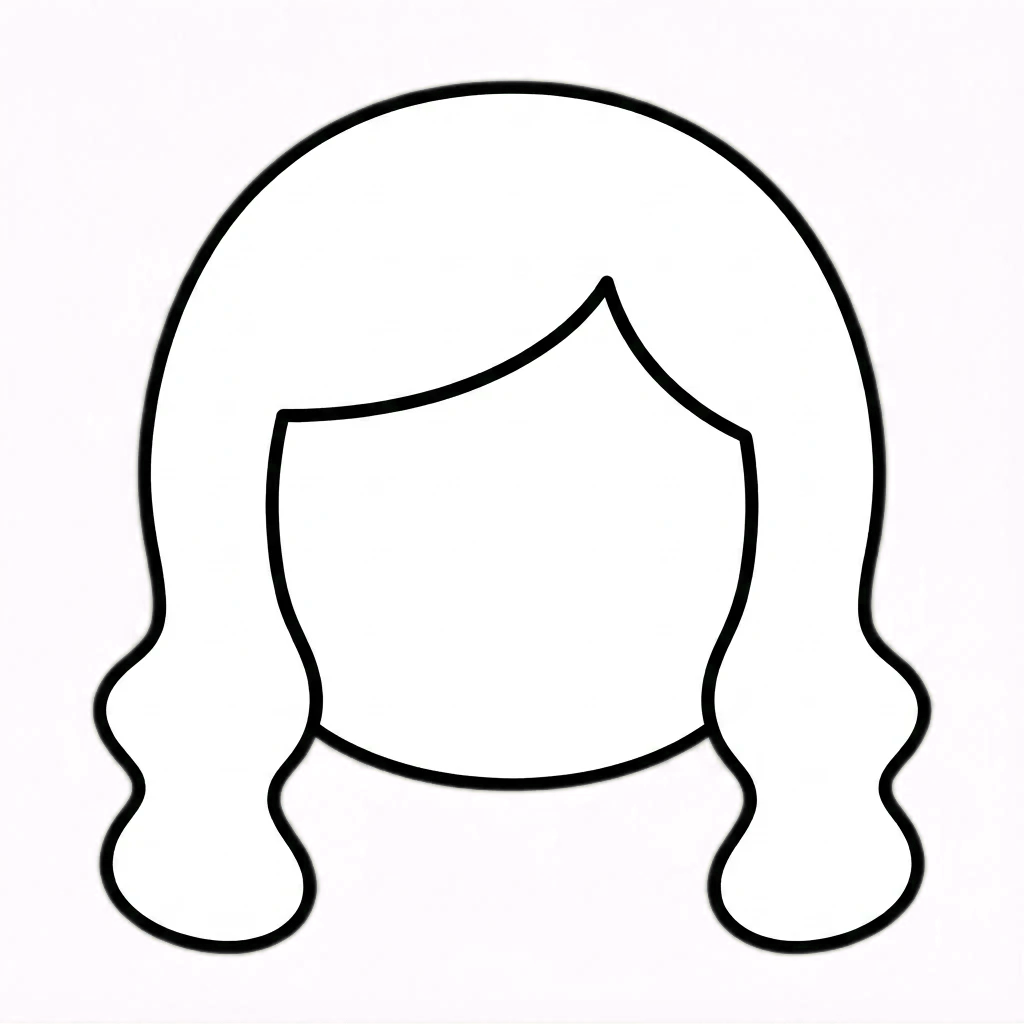
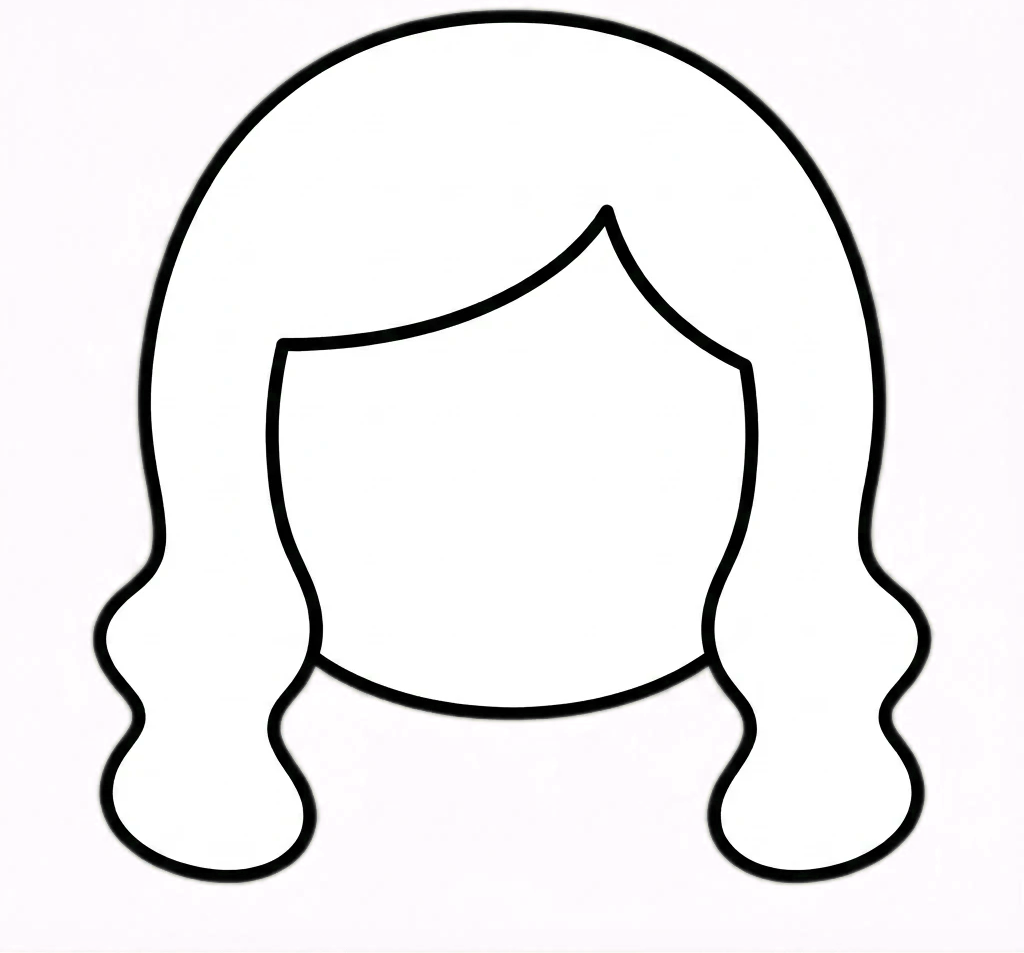
Wire the approved Toca Boca character art into the live game
Replaces the procedural placeholder shapes for head, body, both hair
lengths, both outfit shapes, outfit trim, glasses, and hair bow with
the approved illustrated PNGs, loaded via each scene's preload() and
tinted at runtime exactly as before (setTint() on white-fill/black-
outline art). CharacterView now scales each layer to a tuned target
size/position since the new art has different native proportions than
the old Graphics-drawn shapes (particularly the body, which is now a
full standing figure with arms and legs instead of a torso capsule).

sunglasses and earring still fall back to the old procedural shapes
until those two assets are provided.

Verified by screenshotting the House scene with Playwright: characters
render with the new illustrated art end-to-end.

Changed region(s): [[0.0625, 0.0, 0.9375, 0.9433]]

diff --git a/src/game/entities/CharacterView.ts b/src/game/entities/CharacterView.ts
@@ -13,6 +13,46 @@ import { colorToNumber } from '@/lib/color';
 
 const SPARKLE_ACCENTS = ['#FF5C7A', '#FFD34D', '#4DB8FF'];
 
+/** Target on-screen sizes for the illustrated shape layers (uniform scale, aspect preserved). */
+const LAYER_SIZE = {
+  head: 60,
+  body: 108, // full standing figure (torso+arms+legs); this one is a target HEIGHT, not width
+  outfitShirt: 90,
+  outfitDress: 92,
+  outfitTrim: 50,
+  hairShort: 66,
+  hairLong: 70,
+  glasses: 40,
+  earring: 12,
+  hairBow: 32,
+};
+
+const BODY_Y = -6;
+const HEAD_Y = -85;
+const OUTFIT_SHIRT_Y = -34;
+const OUTFIT_DRESS_Y = -20;
+const TRIM_Y = -8;
+const HAIR_SHORT_Y = HEAD_Y - 6;
+const HAIR_LONG_Y = HEAD_Y + 2;
+const GLASSES_Y = HEAD_Y + 2;
+const EARRING_Y = HEAD_Y + 8;
+const EARRING_X = 22;
+const HAIR_ACCESSORY_Y = HEAD_Y - 24;
+const HAIR_ACCESSORY_X = 12;
+const HELD_ITEM_X = 60;
+
+/** Uniformly scales `image` so its display width matches `targetWidth`, preserving aspect ratio. */
+function fitWidth(image: Phaser.GameObjects.Image, targetWidth: number): void {
+  const scale = targetWidth / image.width;
+  image.setScale(scale);
+}
+
+/** Uniformly scales `image` so its display height matches `targetHeight`, preserving aspect ratio. */
+function fitHeight(image: Phaser.GameObjects.Image, targetHeight: number): void {
+  const scale = targetHeight / image.height;
+  image.setScale(scale);
+}
+
 /**
  * A character rendered as layered, independently-tinted shape sprites
  * (skin, outfit, hair, accessories, held item) inside one Container. Layers
@@ -38,25 +78,39 @@ export class CharacterView extends Phaser.GameObjects.Container {
     this.characterId = character.id;
 
     this.bodyShape = scene.add
-      .image(0, -6, SHAPE.bodyCapsule)
+      .image(0, BODY_Y, SHAPE.bodyCapsule)
       .setTint(colorToNumber(character.skinTone));
+    fitHeight(this.bodyShape, LAYER_SIZE.body);
     this.head = scene.add
-      .image(0, -52, SHAPE.headCircle)
+      .image(0, HEAD_Y, SHAPE.headCircle)
       .setTint(colorToNumber(character.skinTone));
-    this.outfit = scene.add.image(0, 0, SHAPE.outfitShirt);
-    this.trim = scene.add.image(0, 26, SHAPE.outfitTrim);
-    this.hair = scene.add.image(0, -58, SHAPE.hairShort);
+    fitWidth(this.head, LAYER_SIZE.head);
+    this.outfit = scene.add.image(0, OUTFIT_SHIRT_Y, SHAPE.outfitShirt);
+    fitWidth(this.outfit, LAYER_SIZE.outfitShirt);
+    this.trim = scene.add.image(0, TRIM_Y, SHAPE.outfitTrim);
+    fitWidth(this.trim, LAYER_SIZE.outfitTrim);
+    this.hair = scene.add.image(0, HAIR_SHORT_Y, SHAPE.hairShort);
+    fitWidth(this.hair, LAYER_SIZE.hairShort);
     this.sparkles = SPARKLE_ACCENTS.map((color, i) =>
       scene.add
-        .image(-14 + i * 14, -78, SHAPE.sparkle)
+        .image(-14 + i * 14, HEAD_Y - 26, SHAPE.sparkle)
         .setTint(colorToNumber(color))
         .setVisible(false),
     );
-    this.glasses = scene.add.image(0, -50, SHAPE.glasses).setVisible(false);
-    this.earringL = scene.add.image(-18, -44, SHAPE.earring).setVisible(false);
-    this.earringR = scene.add.image(18, -44, SHAPE.earring).setVisible(false).setFlipX(true);
-    this.hairAccessory = scene.add.image(14, -76, SHAPE.hairBow).setVisible(false);
-    this.heldItem = scene.add.image(30, -6, SHAPE.bag).setVisible(false);
+    this.glasses = scene.add.image(0, GLASSES_Y, SHAPE.glasses).setVisible(false);
+    fitWidth(this.glasses, LAYER_SIZE.glasses);
+    this.earringL = scene.add.image(-EARRING_X, EARRING_Y, SHAPE.earring).setVisible(false);
+    fitWidth(this.earringL, LAYER_SIZE.earring);
+    this.earringR = scene.add
+      .image(EARRING_X, EARRING_Y, SHAPE.earring)
+      .setVisible(false)
+      .setFlipX(true);
+    fitWidth(this.earringR, LAYER_SIZE.earring);
+    this.hairAccessory = scene.add
+      .image(HAIR_ACCESSORY_X, HAIR_ACCESSORY_Y, SHAPE.hairBow)
+      .setVisible(false);
+    fitWidth(this.hairAccessory, LAYER_SIZE.hairBow);
+    this.heldItem = scene.add.image(HELD_ITEM_X, BODY_Y, SHAPE.bag).setVisible(false);
 
     this.add([
       this.bodyShape,
@@ -79,9 +133,11 @@ export class CharacterView extends Phaser.GameObjects.Container {
   applyOutfitState(outfitState: CharacterOutfitState): void {
     const outfit = outfitsById.get(outfitState.outfitId);
     if (outfit) {
+      const isDress = outfit.category === 'formalDress' || outfit.category === 'dress';
       const visual = outfitVisual(outfit);
       this.outfit.setTexture(visual.texture).setTint(colorToNumber(visual.color));
-      this.outfit.setY(outfit.category === 'formalDress' || outfit.category === 'dress' ? 8 : 0);
+      fitWidth(this.outfit, isDress ? LAYER_SIZE.outfitDress : LAYER_SIZE.outfitShirt);
+      this.outfit.setY(isDress ? OUTFIT_DRESS_Y : OUTFIT_SHIRT_Y);
       if (visual.trimColor) {
         this.trim.setVisible(true).setTint(colorToNumber(visual.trimColor));
       } else {
@@ -91,22 +147,24 @@ export class CharacterView extends Phaser.GameObjects.Container {
 
     const hair = hairById.get(outfitState.hairId);
     if (hair) {
+      const isLong = hair.length === 'long';
       const visual = hairVisual(hair);
       this.hair.setTexture(visual.texture).setTint(colorToNumber(visual.color));
-      this.hair.setY(hair.length === 'long' ? -50 : -58);
+      fitWidth(this.hair, isLong ? LAYER_SIZE.hairLong : LAYER_SIZE.hairShort);
+      this.hair.setY(isLong ? HAIR_LONG_Y : HAIR_SHORT_Y);
       this.sparkles.forEach((sparkle) => sparkle.setVisible(visual.rainbow));
     }
 
-    this.applyAccessory(this.glasses, outfitState.glassesId, [-50]);
+    this.applyAccessory(this.glasses, outfitState.glassesId, LAYER_SIZE.glasses);
     this.applyEarrings(outfitState.earringsId);
-    this.applyAccessory(this.hairAccessory, outfitState.hairAccessoryId, [-76]);
+    this.applyAccessory(this.hairAccessory, outfitState.hairAccessoryId, LAYER_SIZE.hairBow);
     this.applyHeldItem(outfitState.heldItemId);
   }
 
   private applyAccessory(
     target: Phaser.GameObjects.Image,
     id: string | null,
-    _pos: number[],
+    targetWidth: number,
   ): void {
     if (!id) {
       target.setVisible(false);
@@ -119,6 +177,7 @@ export class CharacterView extends Phaser.GameObjects.Container {
     }
     const visual = accessoryVisual(accessory);
     target.setTexture(visual.texture).setTint(colorToNumber(visual.color)).setVisible(true);
+    fitWidth(target, targetWidth);
   }
 
   private applyEarrings(id: string | null): void {
@@ -131,7 +190,9 @@ export class CharacterView extends Phaser.GameObjects.Container {
     const visual = accessoryVisual(accessory);
     const color = colorToNumber(visual.color);
     this.earringL.setTexture(visual.texture).setTint(color).setVisible(true);
+    fitWidth(this.earringL, LAYER_SIZE.earring);
     this.earringR.setTexture(visual.texture).setTint(color).setVisible(true);
+    fitWidth(this.earringR, LAYER_SIZE.earring);
   }
 
   private applyHeldItem(id: string | null): void {

diff --git a/src/game/loaders/shapeImages.ts b/src/game/loaders/shapeImages.ts
@@ -1,0 +1,39 @@
+import Phaser from 'phaser';
+import { SHAPE } from './shapeTextures';
+
+import headUrl from '@/assets/characters/head.png';
+import bodyUrl from '@/assets/characters/body.png';
+import hairShortUrl from '@/assets/characters/hair-short.png';
+import hairLongUrl from '@/assets/characters/hair-long.png';
+import outfitShirtUrl from '@/assets/characters/outfit-shirt.png';
+import outfitDressUrl from '@/assets/characters/outfit-dress.png';
+import outfitTrimUrl from '@/assets/characters/outfit-trim.png';
+import glassesUrl from '@/assets/characters/glasses.png';
+import hairBowUrl from '@/assets/characters/hair-bow.png';
+
+/**
+ * Illustrated (Toca Boca-style) replacements for a subset of SHAPE keys.
+ * Anything not listed here keeps falling back to the procedural Graphics
+ * shapes drawn by `ensureBaseShapeTextures` - both are plain white-fill /
+ * black-outline art tinted at runtime, so the two sources mix safely.
+ */
+const SHAPE_IMAGE_SOURCES: Partial<Record<(typeof SHAPE)[keyof typeof SHAPE], string>> = {
+  [SHAPE.headCircle]: headUrl,
+  [SHAPE.bodyCapsule]: bodyUrl,
+  [SHAPE.hairShort]: hairShortUrl,
+  [SHAPE.hairLong]: hairLongUrl,
+  [SHAPE.outfitShirt]: outfitShirtUrl,
+  [SHAPE.outfitDress]: outfitDressUrl,
+  [SHAPE.outfitTrim]: outfitTrimUrl,
+  [SHAPE.glasses]: glassesUrl,
+  [SHAPE.hairBow]: hairBowUrl,
+};
+
+/** Queue the illustrated shape PNGs for loading. Call from a scene's `preload()`. */
+export function preloadShapeImages(scene: Phaser.Scene): void {
+  for (const [key, url] of Object.entries(SHAPE_IMAGE_SOURCES)) {
+    if (!scene.textures.exists(key)) {
+      scene.load.image(key, url);
+    }
+  }
+}

diff --git a/src/game/scenes/CityMapScene.ts b/src/game/scenes/CityMapScene.ts
@@ -1,6 +1,7 @@
 import Phaser from 'phaser';
 import { BUILDINGS } from '@/data';
 import { ensureBaseShapeTextures } from '@/game/loaders/shapeTextures';
+import { preloadShapeImages } from '@/game/loaders/shapeImages';
 import { buildingVisual } from '@/game/loaders/entityVisuals';
 import { colorToNumber } from '@/lib/color';
 import { EventBus } from '@/game/EventBus';
@@ -13,6 +14,10 @@ export const GAME_HEIGHT = 800;
 export class CityMapScene extends Phaser.Scene {
   constructor() {
     super('CityMap');
+  }
+
+  preload(): void {
+    preloadShapeImages(this);
   }
 
   create(): void {

diff --git a/src/game/scenes/GiftAreaScene.ts b/src/game/scenes/GiftAreaScene.ts
@@ -1,5 +1,6 @@
 import Phaser from 'phaser';
 import { ensureBaseShapeTextures, SHAPE } from '@/game/loaders/shapeTextures';
+import { preloadShapeImages } from '@/game/loaders/shapeImages';
 import { giftsById, holdableItemsById, outfitsById, accessoriesById } from '@/data';
 import { giftVisual } from '@/game/loaders/entityVisuals';
 import { colorToNumber } from '@/lib/color';
@@ -36,6 +37,10 @@ export class GiftAreaScene extends Phaser.Scene {
 
   constructor() {
     super('GiftArea');
+  }
+
+  preload(): void {
+    preloadShapeImages(this);
   }
 
   create(): void {

diff --git a/src/game/scenes/ClothingShopScene.ts b/src/game/scenes/ClothingShopScene.ts
@@ -1,5 +1,6 @@
 import Phaser from 'phaser';
 import { ensureBaseShapeTextures, SHAPE } from '@/game/loaders/shapeTextures';
+import { preloadShapeImages } from '@/game/loaders/shapeImages';
 import { charactersById } from '@/data';
 import { CharacterView } from '@/game/entities/CharacterView';
 import { makeDraggable } from '@/game/systems/DragSystem';
@@ -24,6 +25,10 @@ export class ClothingShopScene extends Phaser.Scene {
 
   constructor() {
     super('ClothingShop');
+  }
+
+  preload(): void {
+    preloadShapeImages(this);
   }
 
   create(): void {

diff --git a/src/game/scenes/HouseScene.ts b/src/game/scenes/HouseScene.ts
@@ -1,5 +1,6 @@
 import Phaser from 'phaser';
 import { ensureBaseShapeTextures } from '@/game/loaders/shapeTextures';
+import { preloadShapeImages } from '@/game/loaders/shapeImages';
 import { charactersById, furnitureById, petsById } from '@/data';
 import { CharacterView } from '@/game/entities/CharacterView';
 import { PetView } from '@/game/entities/PetView';
@@ -22,6 +23,10 @@ export class HouseScene extends Phaser.Scene {
 
   constructor() {
     super('House');
+  }
+
+  preload(): void {
+    preloadShapeImages(this);
   }
 
   create(): void {
